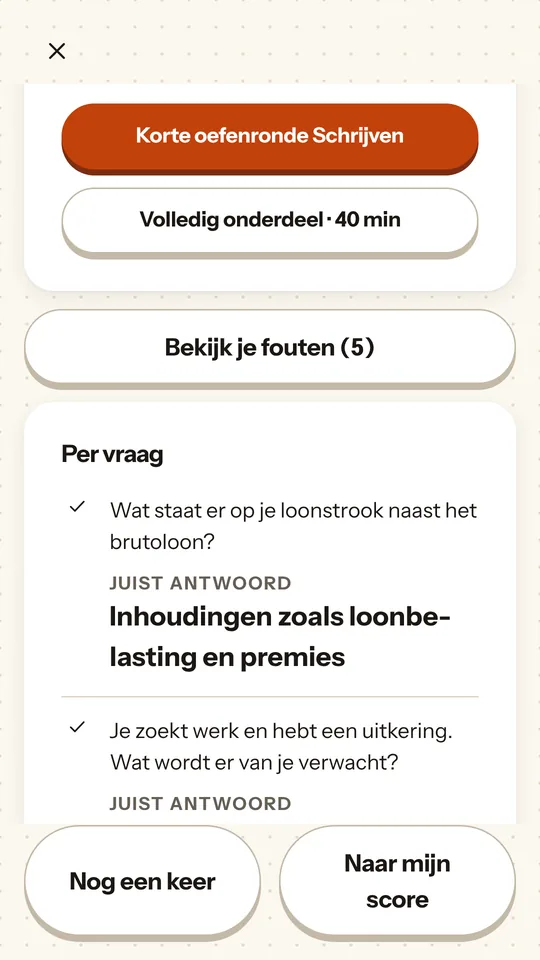
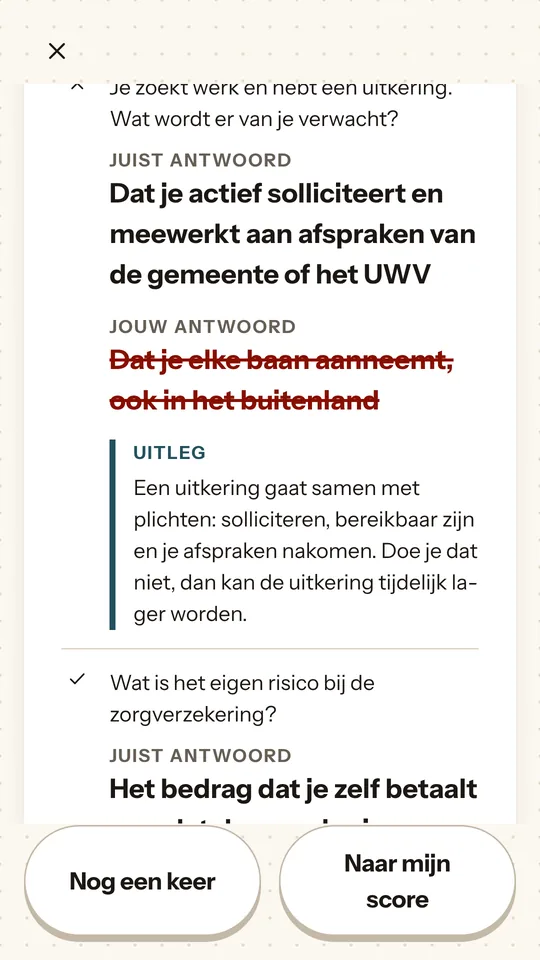
Site copy: fixes from a fresh read, KNM image and wording (#2)
* Site copy: fixes from a fresh read

Facts:
- Dutchy: exam mode no longer 'hidden until you set a date' (the home screen always shows the exam row); KNM image description matches the new screenshot; NL iPhone answer says 'planned', like the English.
- Homepage: only APrompter is being tested yet; Dutchy's test starts soon. Dropped 'the policies are short' (the APrompter one is not) and two repeated lines.
- APrompter: 'doesn't send your scripts anywhere' (the app can export a script on request).
Wording: 'have applied since', 'moves' as in the app, a concrete landlord example, plainer Dutch (inspreken, persoonsvorm op de tweede plaats, no calques), a cleaner support intro.

Claude-Session: https://claude.ai/code/session_01CbuZRjdvCnb53iZ9j1oEX4

* Dutchy page: KNM image shows a wrong answer with its explanation

The image and its description now match what the page says about KNM (an explanation of why each answer is right).

Claude-Session: https://claude.ai/code/session_01CbuZRjdvCnb53iZ9j1oEX4

* Dutchy KNM line: the explanation shows on the questions you get wrong

The result list shows 'Uitleg' under wrong answers only; the copy said every answer had one.

Claude-Session: https://claude.ai/code/session_01CbuZRjdvCnb53iZ9j1oEX4

---------

Changed region(s): [[0.0296, 0.0625, 0.9481, 0.8438], [0.9481, 0.3438, 0.9778, 0.375], [0.0889, 0.2188, 0.1185, 0.25]]

diff --git a/site/dutchy/nl/index.html b/site/dutchy/nl/index.html
@@ -53,7 +53,7 @@
         </div>
         <p class="pill"><span class="dot" aria-hidden="true"></span>Android-test begint</p>
         <h1>Een cursus Nederlands, van <em>A1 tot C2.</em></h1>
-        <p class="lede">Voor wie in Nederland woont, werkt of studeert. Met de brief van de gemeente, het telefoontje naar de huisarts en het examen als je dat moet doen. Je oefent elke dag een beetje.</p>
+        <p class="lede">Voor wie in Nederland woont, werkt of studeert. Je oefent elke dag een beetje: met de brief van de gemeente, het telefoontje naar de huisarts en, als het moet, het examen.</p>
         <div class="actions">
           <a class="button primary" href="mailto:nightowlyyyy@gmail.com?subject=Dutchy%20Android-test&amp;body=Mijn%20Google-account%3A%20">Doe mee met de Android-test</a>
           <a class="button secondary" href="mailto:nightowlyyyy@gmail.com?subject=Laat%20me%20weten%20wanneer%20Dutchy%20op%20iPhone%20komt">Bericht voor iPhone</a>
@@ -91,14 +91,14 @@
       <div class="feature">
         <div class="feature-text">
           <h3>Een schrijfcontrole die de regel noemt</h3>
-          <p>Schrijf de mail die je echt moet versturen. Dutchy onderstreept de fout in je eigen zin en zegt welke regel je breekt.</p>
+          <p>Typ bijvoorbeeld een mail aan je verhuurder. Dutchy onderstreept de fout in je eigen zin en legt uit welke regel er geldt.</p>
           <div class="nl-sample">
             <p>Ik ga naar de huisarts omdat ik <mark>heb pijn in mijn rug</mark>.</p>
             <p class="rule">Na “omdat” gaat de persoonsvorm naar het eind van de zin.</p>
           </div>
           <ul class="ticks" role="list">
-            <li>Hij controleert de zinsbouw: het werkwoord op plaats twee, de persoonsvorm achteraan in de bijzin, congruentie, de/het en de uitgangen van bijvoeglijke naamwoorden. Over stijl zegt hij niets.</li>
-            <li>De controle draait op je telefoon, dus je tekst blijft daar</li>
+            <li>De controle let op zinsbouw: de persoonsvorm op de tweede plaats en achteraan in de bijzin, congruentie, de/het en de uitgangen van bijvoeglijke naamwoorden. Over stijl zegt hij niets.</li>
+            <li>Hij draait op je telefoon, dus je tekst blijft daar</li>
             <li>Twijfelt hij, dan zegt hij niets. Hij is getest op al het correcte Nederlands in de cursus en keurt daar niets van af.</li>
             <li>Er is een schrijfhulp met voorbeelden voor de verhuurder, de gemeente, een ziekmelding, een sollicitatie en de buren</li>
           </ul>
@@ -111,11 +111,11 @@
       <div class="feature flip">
         <div class="feature-text">
           <h3>Uitspraak, klank voor klank</h3>
-          <p>Zeg een zin in en zie welke klank er verkeerd uitkwam: je g als k, je ui als ou. Dutchy houdt per klank bij hoe het gaat en maakt oefeningen met cursuswoorden waar jouw zwakste klanken in zitten.</p>
+          <p>Spreek een zin in en zie welke klank er verkeerd uitkwam: je g als k, je ui als ou. Dutchy houdt per klank bij hoe het gaat en maakt oefeningen met cursuswoorden waar jouw zwakste klanken in zitten.</p>
           <ul class="ticks" role="list">
             <li>Je krijgt een score per klank, zoals “je ui staat op 27%, je g op 45%”</li>
             <li>Elke verkeerde klank is gemarkeerd in je eigen zin, met een afspeelknop om hem te horen</li>
-            <li>Wat hij niet kan: hij hoort een klank die als een andere Nederlandse klank aankomt, maar hij oordeelt niet over je accent en verzint geen fouten.</li>
+            <li>De controle hoort alleen of je een andere Nederlandse klank zegt. Over je accent oordeelt hij niet, en hij verzint geen fouten.</li>
           </ul>
         </div>
         <picture>
@@ -141,15 +141,15 @@
       <div class="feature flip" id="exam">
         <div class="feature-text">
           <h3>Oefenen voor het examen</h3>
-          <p>Zet de examenmodus aan als je een examendatum hebt. Tot die tijd zie je hem niet.</p>
+          <p>Zet de examenmodus aan als je een examendatum hebt. Tot die tijd zit hij je niet in de weg.</p>
           <ul class="ticks" role="list">
             <li><strong>Inburgering A2 en B1</strong> en <strong>Staatsexamen NT2 Programma I en II</strong></li>
             <li>Oefenexamens met dezelfde onderdelen en tijden als het echte examen, een cijfer per onderdeel en een melding welk onderdeel je nog niet gaat halen</li>
-            <li><strong>KNM</strong>, het verplichte onderdeel Kennis van de Nederlandse Maatschappij: 54 vragen volgens de eindtermen die sinds 1 juli 2025 gelden, met bij elke vraag uitleg waarom het antwoord goed is</li>
+            <li><strong>KNM</strong>, het verplichte onderdeel Kennis van de Nederlandse Maatschappij: 54 vragen volgens de eindtermen die sinds 1 juli 2025 gelden. Heb je er een fout, dan zie je het juiste antwoord en waarom dat klopt</li>
           </ul>
         </div>
         <picture>
-          <img class="shot" src="../img/knm.webp" alt="Een KNM-uitslag: 88 procent en geslaagd, met elke vraag en de uitleg eronder." width="540" height="960" loading="lazy">
+          <img class="shot" src="../img/knm.webp" alt="Een KNM-uitslag: een fout beantwoorde vraag, met je eigen antwoord doorgestreept, het juiste antwoord en een kader dat uitlegt waarom." width="540" height="960" loading="lazy">
         </picture>
       </div>
 
@@ -204,7 +204,7 @@
       <div class="section-head">
         <p class="kicker">Privacy</p>
         <h2 id="privacy-title">Je voortgang blijft op je telefoon</h2>
-        <p>Dutchy heeft geen eigen server, en niets over je leren verlaat je telefoon. Het enige netwerkverkeer dat de app veroorzaakt, is de aankoopcontrole. Eén ding om te weten: spraakherkenning doet de spraakdienst van je telefoon zelf, en die kan afhankelijk van je telefoon audio naar Google of Apple sturen. <a href="privacy/">Lees de privacyverklaring</a>.</p>
+        <p>Dutchy heeft geen eigen server, en wat je in de app doet, blijft op je telefoon. Het enige netwerkverkeer dat de app veroorzaakt, is de aankoopcontrole. Wel een kanttekening: voor spraakherkenning gebruikt Dutchy de spraakdienst van je toestel, en die kan afhankelijk van je toestel audio naar Google of Apple sturen. <a href="privacy/">Lees de privacyverklaring</a>.</p>
       </div>
       <ul class="promises" role="list">
         <li><strong>Geen account</strong><p>Je hoeft je nergens voor aan te melden. Een abonnement hoort bij je Google Play- of App Store-account.</p></li>
@@ -278,7 +278,7 @@
         </details>
         <details>
           <summary>Is er een iPhone-versie?</summary>
-          <p>Nog niet. Die komt na de Android-versie. <a href="mailto:nightowlyyyy@gmail.com?subject=Laat%20me%20weten%20wanneer%20Dutchy%20op%20iPhone%20komt">Mail me</a> als je bericht wilt zodra hij er is.</p>
+          <p>Nog niet. Die staat gepland voor na de Android-versie. <a href="mailto:nightowlyyyy@gmail.com?subject=Laat%20me%20weten%20wanneer%20Dutchy%20op%20iPhone%20komt">Mail me</a> als je bericht wilt zodra hij er is.</p>
         </details>
         <details>
           <summary>Waar staat mijn voortgang?</summary>

diff --git a/site/dutchy/index.html b/site/dutchy/index.html
@@ -62,7 +62,7 @@
       </div>
 
       <div class="duo">
-        <img class="shot" src="img/schrijven.webp" alt="The writing check. In the sentence “Ik ga naar de huisarts omdat ik heb pijn in mijn rug” the verb part is underlined, and the rule below says that after “omdat” the finite verb goes to the end of the clause." width="540" height="960">
+        <img class="shot" src="img/schrijven.webp" alt="The writing check. In the sentence “Ik ga naar de huisarts omdat ik heb pijn in mijn rug” the verb part is underlined, and the rule below says that after “omdat” the finite verb moves to the end of the clause." width="540" height="960">
         <img class="shot" src="img/examen.webp" alt="The inburgeringsexamen A2 screen: four of the five practised sections passed, and a button to set your exam date." width="540" height="960">
       </div>
     </div>
@@ -91,10 +91,10 @@
       <div class="feature">
         <div class="feature-text">
           <h3>A writing check that tells you the rule</h3>
-          <p>Write the email you really have to send. Dutchy underlines the mistake in your own sentence and tells you which rule it breaks.</p>
+          <p>Type an email you need to send, say to your landlord. Dutchy underlines the mistake in your own sentence and tells you which rule it breaks.</p>
           <div class="nl-sample" lang="nl">
             <p>Ik ga naar de huisarts omdat ik <mark>heb pijn in mijn rug</mark>.</p>
-            <p class="rule" lang="en">After “omdat” the finite verb goes to the end of the clause.</p>
+            <p class="rule" lang="en">After “omdat” the finite verb moves to the end of the clause.</p>
           </div>
           <ul class="ticks" role="list">
             <li>It checks sentence structure: the verb in second place, the verb at the end of a subordinate clause, agreement, <span lang="nl">de</span>/<span lang="nl">het</span> and adjective endings. It doesn't comment on style.</li>
@@ -115,7 +115,7 @@
           <ul class="ticks" role="list">
             <li>You get a score per sound, like “your ui is at 27%, your g at 45%”</li>
             <li>Every wrong sound is marked in your own sentence, with a play button to hear it</li>
-            <li>What it can't do: it hears a sound that comes out as a different Dutch sound, but it doesn't judge your accent, and it won't make up a mistake.</li>
+            <li>It only notices when a sound comes out as a different Dutch sound. It doesn't judge your accent, and it won't make up a mistake.</li>
           </ul>
         </div>
         <picture>
@@ -141,15 +141,15 @@
       <div class="feature flip" id="exam">
         <div class="feature-text">
           <h3>Exam practice</h3>
-          <p>Turn on exam mode when you have an exam date. Until then you won't see it.</p>
+          <p>Turn on exam mode when you have an exam date. Until then it doesn't get in your way.</p>
           <ul class="ticks" role="list">
             <li><strong>Inburgering A2 and B1</strong> and <strong>Staatsexamen NT2 Programma I and II</strong></li>
             <li>Mock exams with the same sections and timing as the real exam, a score per section, and a note on which section you're not ready for yet</li>
-            <li><strong>KNM</strong>, the compulsory part about Dutch society: 54 questions written to the exam requirements that apply since 1 July 2025, each with an explanation of the right answer</li>
+            <li><strong>KNM</strong>, the compulsory part about Dutch society: 54 questions written to the exam requirements that have applied since 1 July 2025. When you get one wrong, you see the right answer and an explanation of why</li>
           </ul>
         </div>
         <picture>
-          <img class="shot" src="img/knm.webp" alt="A KNM result: 88 percent and a pass, with each question and its explanation listed below." width="540" height="960" loading="lazy">
+          <img class="shot" src="img/knm.webp" alt="A KNM result: a question answered wrong, with the learner's answer crossed out, the right answer, and a box explaining why." width="540" height="960" loading="lazy">
         </picture>
       </div>
 

diff --git a/site/index.html b/site/index.html
@@ -218,7 +218,7 @@
       <div class="hero-copy">
         <p class="kicker">night owly</p>
         <h1>I build mobile apps <em>on my own</em>.</h1>
-        <p class="lede">I'm a product developer based in the Netherlands, and the person behind night owly. There are two apps so far: APrompter, a teleprompter for people who film themselves, and Dutchy, a course for learning Dutch. Both are being tested on Android.</p>
+        <p class="lede">I'm a product developer based in the Netherlands, and the person behind night owly. There are two apps so far: APrompter, a teleprompter for people who film themselves, and Dutchy, a course for learning Dutch. APrompter is being tested on Android, and Dutchy's test starts soon.</p>
         <div class="actions">
           <a class="button primary" href="#apps">See the apps</a>
           <a class="button secondary" href="#contact">Email me</a>
@@ -251,10 +251,10 @@
       <div class="about">
         <p class="kicker">About</p>
         <h2 id="about-title">Who makes these</h2>
-        <p>Just me. I write the code, design the screens, write the text in the apps and on this site, and answer the support emails.</p>
-        <p>Each app is for one kind of person with one thing to get done. You don't need an account for any of them, there are no ads, and they don't track what you do.</p>
+        <p>I write the code, design the screens, write the text in the apps and on this site, and answer the support emails.</p>
+        <p>You don't need an account for any of them, there are no ads, and they don't track what you do.</p>
         <p>What you make in them, like a script, your notes or your progress, is stored on your phone. The apps only go online to check whether you've bought something. The one exception is Dutchy's speaking exercises: they use your phone's own speech recognition, and depending on your phone, that can go online.</p>
-        <p>Each app has its own privacy policy and terms. They're short, so it's worth reading them rather than taking my word for it.</p>
+        <p>Each app has its own privacy policy and terms, linked at the bottom of its page.</p>
       </div>
     </div>
   </section>

diff --git a/site/aprompter/index.html b/site/aprompter/index.html
@@ -405,8 +405,8 @@
     <div class="wrap">
       <div class="section-head">
         <p class="kicker">Privacy</p>
-        <h2 id="privacy-title">Your scripts don't leave your phone</h2>
-        <p>APrompter never sends your scripts or videos anywhere. The only time it goes online is to check whether you've bought APrompter Unlimited. <a href="privacy/">Read the privacy policy</a>.</p>
+        <h2 id="privacy-title">APrompter doesn't send your scripts anywhere</h2>
+        <p>Your videos stay where you save them, too. The only time the app goes online is to check whether you've bought APrompter Unlimited. <a href="privacy/">Read the privacy policy</a>.</p>
       </div>
       <ul class="promises" role="list">
         <li><strong>No account</strong><p>There's nothing to sign up for. If you buy Unlimited, it's tied to your Google Play or App Store account.</p></li>

diff --git a/site/dutchy/nl/support/index.html b/site/dutchy/nl/support/index.html
@@ -39,7 +39,7 @@
   <div class="wrap">
     <article>
       <h1>Support</h1>
-      <p>De meeste antwoorden staan hieronder. Staat het jouwe er niet bij, mail me dan. Ik maak de app en beantwoord de supportmails zelf.</p>
+      <p>De meeste antwoorden staan hieronder. Staat je vraag er niet bij? Mail me dan. Ik maak de app en beantwoord de supportmails zelf.</p>
 
       <div class="contact-box">
         <span class="kicker">E-mail</span>
